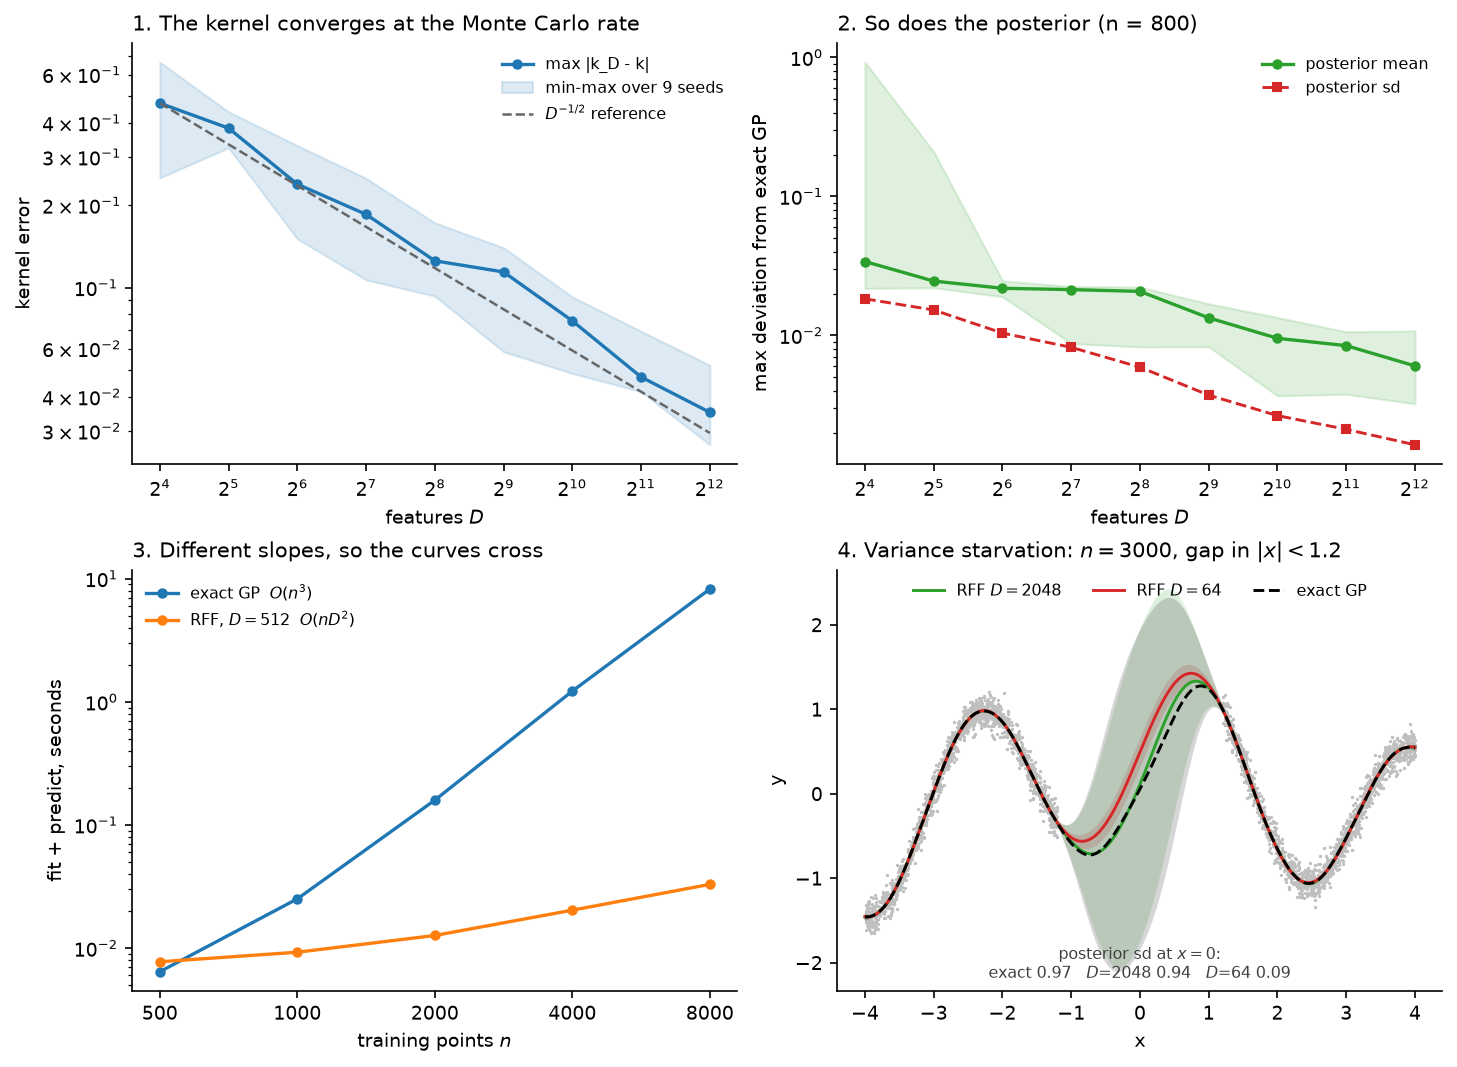
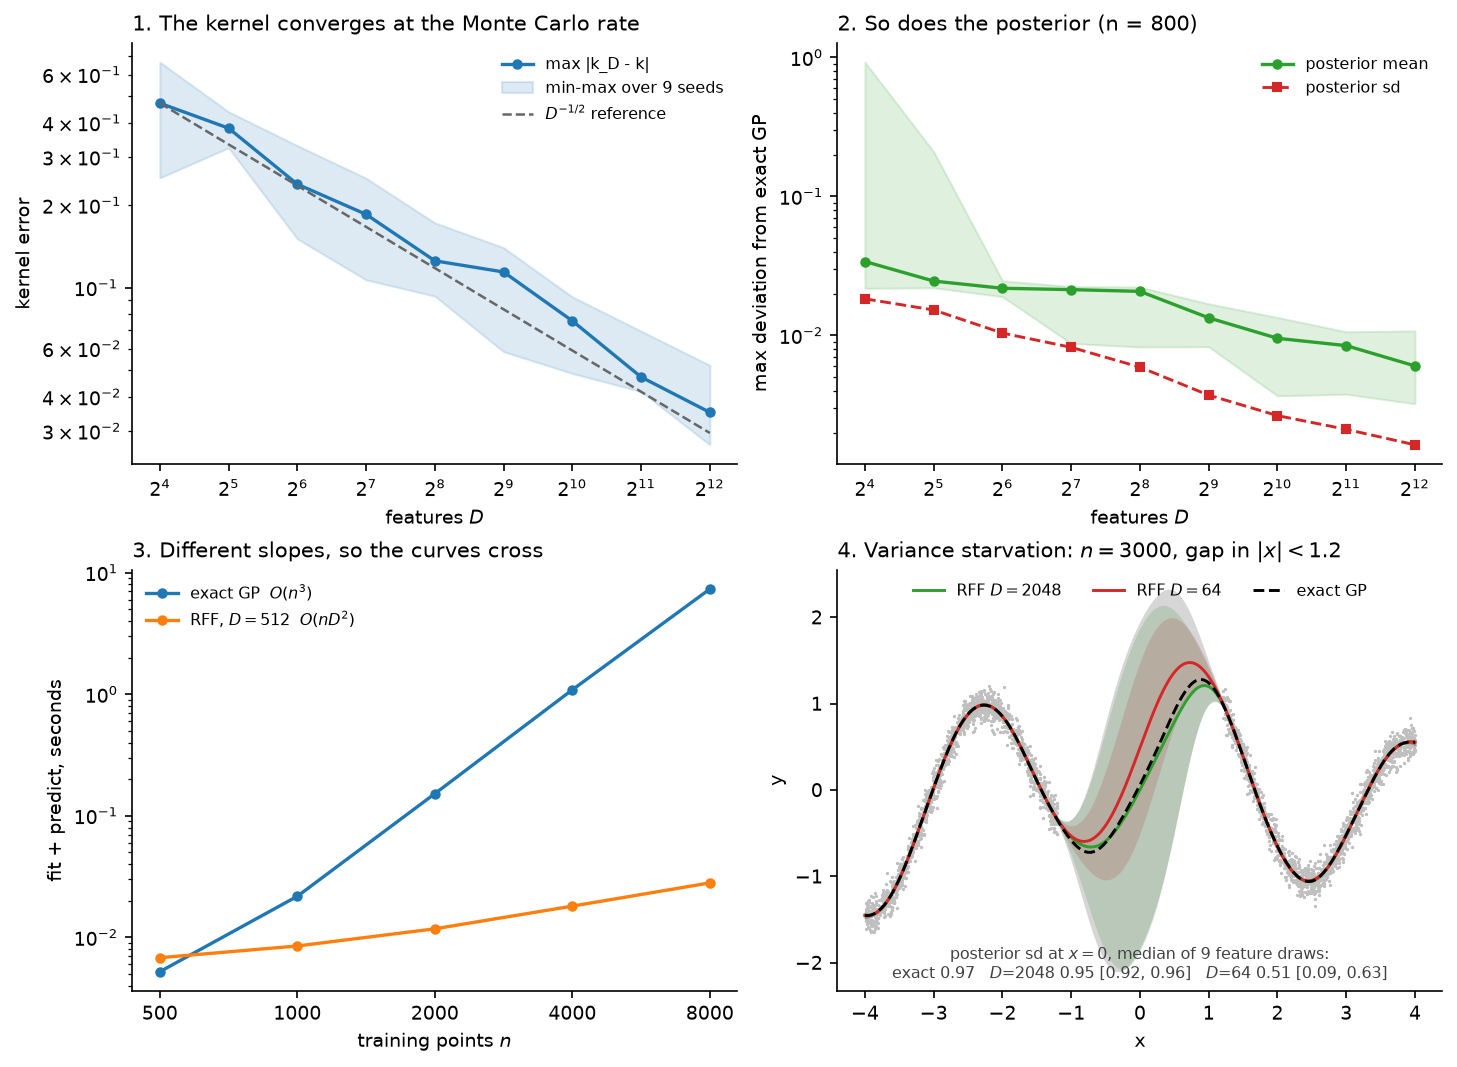
Correct the starvation numbers: one was the worst of nine draws
The variance-starvation result reported the D=64 posterior sd at the gap
centre as 0.088, "a tenth of the honest uncertainty". That fit is real but it
is default_rng(0), and it is the *worst* of nine draws of the feature map:
the median is 0.505 and the range is [0.088, 0.635]. At D=64 there are few
enough frequencies that which ones come up matters more than D does, so a
single draw was never a measurement. D=2048 spans 0.922-0.960 over the same
nine, which is why the large-D number held up and the small-D one did not.
starvation() now fits every draw, reports the spread, and plots the median
draw instead of seed 0.

The claim that survives is qualitative: no draw is close, and even the best
is 34% below exact.

Second correction, from splitting the error by region instead of taking one
max over the whole domain: "the mean is still fine there" is false. The
median D=64 draw is off by 0.527 in the gap against 0.009 where the data are
(56x), on a posterior mean spanning +-1.5. Even D=2048, whose error bar is
99% of the honest one, is 22x worse in the gap than on the data. The
whole-domain max hid this because 70% of the domain has data in it.

diff --git a/experiments/rff.py b/experiments/rff.py
@@ -132,14 +132,33 @@ def timing_vs_n(ns, D=512, repeats=3):
 
 
 def starvation(n=3000, gap=1.2):
+    """Posterior across a gap, over ``N_SEEDS`` draws of the feature map.
+
+    One draw is not a measurement here. The frequencies are random, and at
+    D = 64 how much error bar survives depends heavily on which eight-ish
+    frequencies happened to come up: across nine draws the posterior sd at the
+    gap centre spans 0.088 to 0.635. This function therefore fits every draw
+    and returns the whole spread, plus the *median* draw for plotting -- the
+    figure used to show ``default_rng(0)``, which turned out to be the worst of
+    the nine, so the number the README quoted was a tail and not a typical fit.
+    The qualitative claim survives (even the best draw is 34% below exact); the
+    headline digits did not.
+    """
     rng = np.random.default_rng(2)
     X, y = dataset(n, rng, gap=gap)
     Xs = np.linspace(-4, 4, 400).reshape(-1, 1)
     exact = GPRegressor(RBF(s2=S2, l=LENGTHSCALE), noise_var=NOISE_VAR).fit(X, y)
-    out = {"X": X, "y": y, "Xs": Xs, "exact": exact.predict(Xs)}
+    out = {"X": X, "y": y, "Xs": Xs, "gap": gap, "exact": exact.predict(Xs)}
+    centre = int(np.argmin(np.abs(Xs.ravel())))
     for D in (64, 2048):
-        phi = RFFMap(D, LENGTHSCALE, S2, 1, np.random.default_rng(0))
-        out[D] = RFFRegressor(phi, noise_var=NOISE_VAR).fit(X, y).predict(Xs)
+        draws = []
+        for seed in range(N_SEEDS):
+            phi = RFFMap(D, LENGTHSCALE, S2, 1, np.random.default_rng(seed))
+            draws.append(RFFRegressor(phi, noise_var=NOISE_VAR).fit(X, y).predict(Xs))
+        sds = np.array([np.sqrt(v[centre]) for _, v in draws])
+        out[D] = draws[int(np.argsort(sds)[len(sds) // 2])]      # median draw
+        out[(D, "sd_spread")] = (float(np.median(sds)), float(sds.min()),
+                                 float(sds.max()))
     return out
 
 
@@ -169,12 +188,26 @@ def main():
     print("\n4. variance starvation across a gap in the data")
     star = starvation()
     Xs = star["Xs"]
-    centre = int(np.argmin(np.abs(Xs.ravel())))
-    sd_exact = np.sqrt(star["exact"][1][centre])
+    xs = Xs.ravel()
+    in_gap = np.abs(xs) < star["gap"]
+    centre = int(np.argmin(np.abs(xs)))
+    mean_exact, var_exact = star["exact"]
+    sd_exact = np.sqrt(var_exact[centre])
     print(f"    exact GP posterior sd at the gap centre: {sd_exact:.3f}")
     for D in (64, 2048):
-        sd = np.sqrt(star[D][1][centre])
-        print(f"    RFF D={D:5d}: {sd:.3f}   ({sd / sd_exact:.2f}x the exact sd)")
+        med, lo, hi = star[(D, "sd_spread")]
+        print(f"    RFF D={D:5d}: sd at the centre, median of {N_SEEDS} draws "
+              f"{med:.3f} [{lo:.3f}, {hi:.3f}]   "
+              f"({med / sd_exact:.2f}x the exact sd)")
+    # Is the mean "still fine" in the gap? Split the error by region rather
+    # than reporting one max over the whole domain, which is dominated by the
+    # 70% of it that has data in it and hides the answer.
+    print("    max |mean_D - mean_exact|, split by region (median draw):")
+    for D in (64, 2048):
+        err = np.abs(star[D][0] - mean_exact)
+        print(f"    RFF D={D:5d}: in the gap {err[in_gap].max():.3f}   "
+              f"where the data are {err[~in_gap].max():.3f}   "
+              f"(ratio {err[in_gap].max() / err[~in_gap].max():.0f}x)")
 
     # ---- figure -------------------------------------------------------------
     fig, axes = plt.subplots(2, 2, figsize=(9.6, 7.0), constrained_layout=True)
@@ -229,9 +262,12 @@ def main():
         ax.fill_between(xs, mean - 1.96 * sd, mean + 1.96 * sd,
                         color=color, alpha=0.16, lw=0)
         ax.plot(xs, mean, color=color, lw=1.4, ls=ls, label=label, zorder=3)
-    ax.annotate(f"posterior sd at $x=0$:\nexact {sd_exact:.2f}   "
-                f"$D$=2048 {np.sqrt(star[2048][1][centre]):.2f}   "
-                f"$D$=64 {np.sqrt(star[64][1][centre]):.2f}",
+    m64, lo64, hi64 = star[(64, "sd_spread")]
+    m2k, lo2k, hi2k = star[(2048, "sd_spread")]
+    ax.annotate(f"posterior sd at $x=0$, median of {N_SEEDS} feature draws:\n"
+                f"exact {sd_exact:.2f}   "
+                f"$D$=2048 {m2k:.2f} [{lo2k:.2f}, {hi2k:.2f}]   "
+                f"$D$=64 {m64:.2f} [{lo64:.2f}, {hi64:.2f}]",
                 xy=(0.5, 0.03), xycoords="axes fraction", ha="center",
                 fontsize=7.5, color="0.25")
     ax.set_xlabel("x")

diff --git a/README.md b/README.md
@@ -477,12 +477,37 @@ separate (fit + predict, same machine, $D = 512$):
 
 **What breaks — variance starvation.** A rank-$D$ model has $D$ degrees of
 freedom in total. Once $n \gg D$ the data pins essentially all of them and the
-posterior variance collapses *everywhere*, including where an exact GP
-correctly widens. With $n = 3000$ and a gap in $\lvert x\rvert < 1.2$, the
-exact posterior sd at the gap centre is **0.97**; $D = 2048$ gives 0.94;
-$D = 64$ gives **0.088** — a tenth of the honest uncertainty, in the one place
-uncertainty was the reason to use a GP (Wang et al. 2018). The mean is still
-fine there; the error bar is not. Raising $D$ is the only fix within RFF.
+posterior variance collapses where an exact GP correctly widens. With
+$n = 3000$ and a gap in $\lvert x\rvert < 1.2$, the exact posterior sd at the
+gap centre is **0.97**, and RFF loses roughly half of it at $D = 64$
+(Wang et al. 2018):
+
+| | sd at the gap centre, median of 9 feature draws | range over the draws | max mean error *in the gap* | …*where the data are* |
+|---|---|---|---|---|
+| exact GP | 0.97 | — | — | — |
+| $D = 2048$ | 0.954 &nbsp;(0.99×) | [0.922, 0.960] | 0.129 | 0.006 |
+| $D = 64$ | 0.505 &nbsp;(0.52×) | **[0.088, 0.635]** | 0.527 | 0.009 |
+
+Two things in that table are corrections to what this section used to claim,
+both found by re-measuring it against a second approximation:
+
+- **The error bar.** This section previously reported $D = 64$ giving **0.088**,
+  a tenth of the honest uncertainty. That is a real fit, but it is
+  `default_rng(0)` — and across nine draws of the feature map it is the *worst*
+  of the nine, against a median of 0.505. At $D = 64$ the frequencies are few
+  enough that which ones come up matters more than $D$ does: the spread runs
+  7×, while at $D = 2048$ the same nine draws span only 0.922–0.960. The
+  qualitative claim survives and the digits did not — even the best draw is 34%
+  below exact, and no draw is close.
+- **The mean.** This section previously said "the mean is still fine there".
+  It is not: split by region, the median $D = 64$ draw is off by **0.527** in
+  the gap and 0.009 where the data are, a 56× difference against a posterior
+  mean spanning $\pm1.5$. The whole-domain max in the table above hid it,
+  because 70% of the domain has data in it. Even $D = 2048$, whose error bar is
+  99% of the honest one, is 22× worse in the gap than on the data. What fails
+  in the gap is the *posterior*, not just its second moment.
+
+Raising $D$ is the only fix within RFF.
 
 <p align="center"><img src="figures/rff.png" width="960"></p>
 
